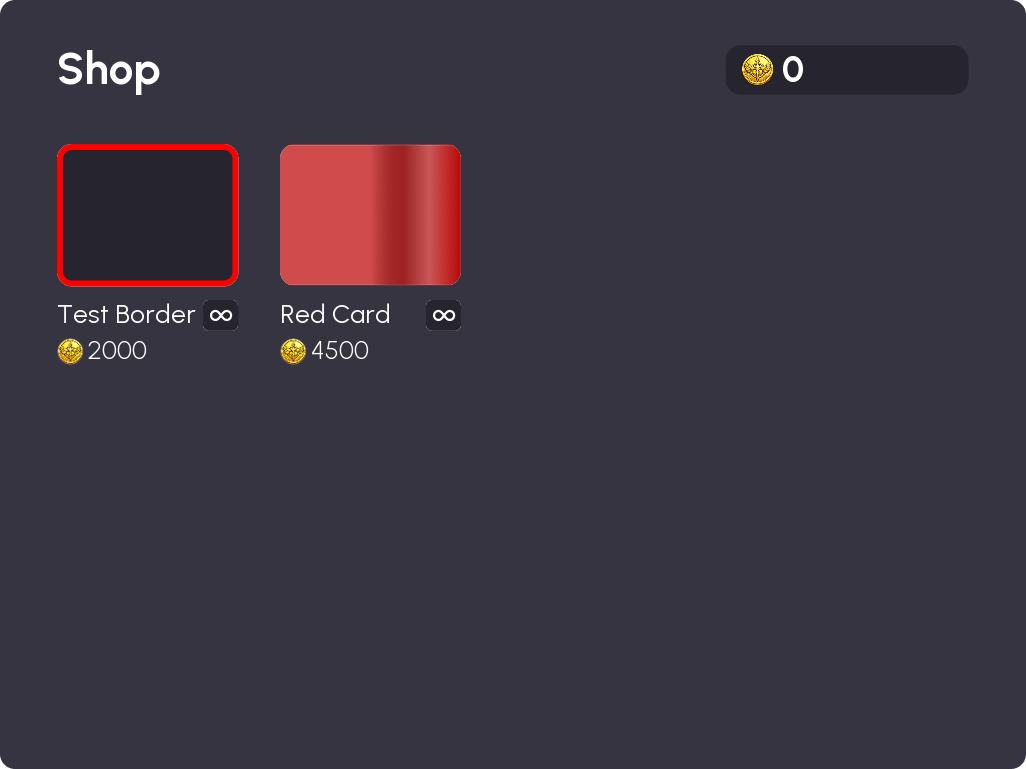
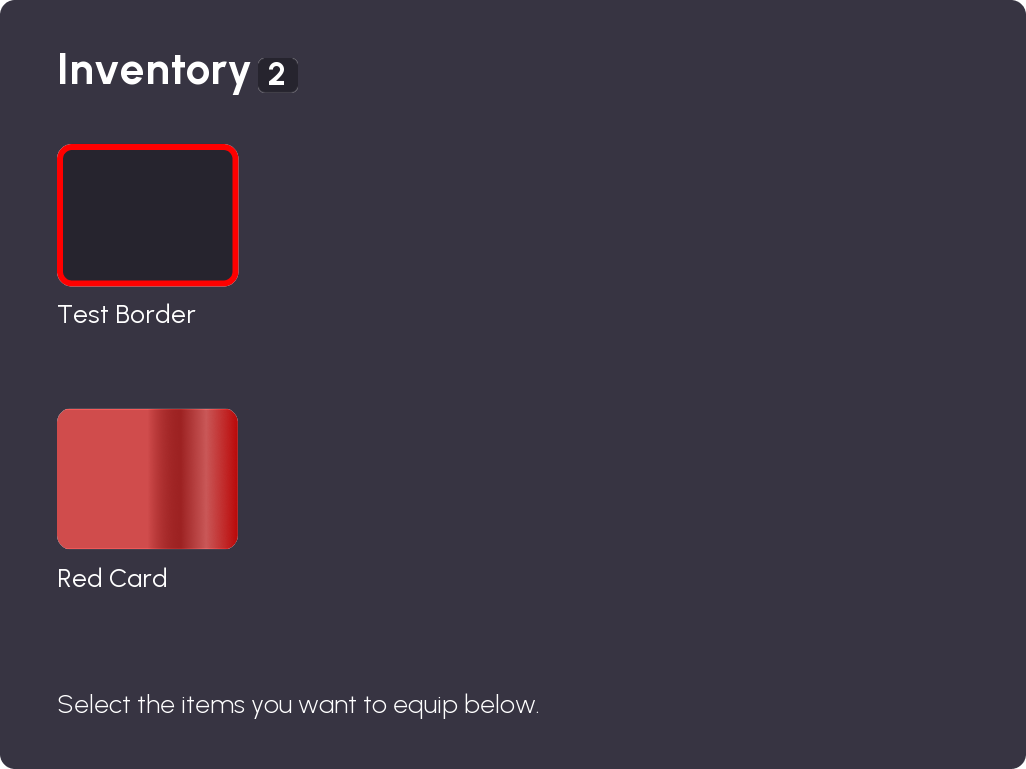
Added inventory image

diff --git a/economy/inventory.py b/economy/inventory.py
@@ -1,0 +1,92 @@
+import logging
+from io import BytesIO
+from pathlib import Path
+from typing import Any, Dict, cast
+
+import discord
+from discord import Member
+from PIL import Image, ImageDraw, ImageFont
+
+from economy.operations import get_shop
+from firebase_client import db
+
+log = logging.getLogger(__name__)
+
+BASE_DIR = Path(__file__).resolve().parent.parent
+ASSETS_DIR = BASE_DIR / "assets"
+FONTS_DIR = BASE_DIR / "assets/fonts"
+
+log.warning(f"BASE_DIR = {BASE_DIR}")
+log.warning(f"ASSETS_DIR = {ASSETS_DIR} exists={ASSETS_DIR.exists()}")
+log.warning(f"FONTS_DIR = {FONTS_DIR} exists={FONTS_DIR.exists()}")
+
+
+async def generate_inventory(
+    interaction: discord.Interaction | None = None, userId: str | None = None
+) -> BytesIO:
+
+    user_doc = db.collection("users").document(userId).get()
+    items = (user_doc.to_dict() or {}).get("inventory", [])
+
+    shop_items = await get_shop()
+    shop_lookup = {item["name"]: item for item in shop_items}
+
+    bg = Image.open(ASSETS_DIR / "inventory.png").convert("RGBA")
+
+    font_small = ImageFont.truetype(FONTS_DIR / "Urbanist-Regular.ttf", 26)
+    font_light = ImageFont.truetype(FONTS_DIR / "Urbanist-Light.ttf", 26)
+    font_bold = ImageFont.truetype(FONTS_DIR / "Urbanist-Bold.ttf", 44)
+    font_small_bold = ImageFont.truetype(FONTS_DIR / "Urbanist-Bold.ttf", 32)
+
+    draw = ImageDraw.Draw(bg)
+
+    draw.text((57, 42), "Inventory", font=font_bold, fill="#FFFFFF")
+    draw.text(
+        (57, 688),
+        "Select the items you want to equip below.",
+        font=font_light,
+        fill="#FFFFFF",
+    )
+
+    x = 0
+    y = 0
+    gapX = 223
+    gapY = 264
+
+    quantity_image = Image.open(ASSETS_DIR / "quantity.png").convert("RGBA")
+    quantity_image = quantity_image.resize((40, 35))
+    bg.paste(
+        quantity_image,
+        (258, 58),
+        quantity_image,
+    )
+    draw.text((268, 54), f"{len(items)}", font=font_small_bold, fill="#FFFFFF")
+    for item in items:
+        shop_item = shop_lookup.get(item["id"])
+        if not shop_item:
+            continue  # skip if item no longer exists in shop
+
+        image_path = ASSETS_DIR / shop_item["image"]
+        item_picture = Image.open(image_path).convert("RGBA")
+
+        if x == 4:
+            y += 1
+            x = 0
+
+        bg.paste(item_picture, (57 + gapX * x, 144 + gapY * y), item_picture)
+
+        draw.text(
+            (57 + gapX * x, 298 + gapY * y),
+            item["id"],
+            font=font_small,
+            fill="#FFFFFF",
+        )
+
+        x += 1
+
+    buffer = BytesIO()
+    # bg.save("final_profile_card.png")
+    bg.save(buffer, format="PNG")
+    buffer.seek(0)
+
+    return buffer

diff --git a/cogs/economy.py b/cogs/economy.py
@@ -1,5 +1,5 @@
 import discord
-from discord import app_commands
+from discord import app_commands, user
 from discord.ext import commands
 from google.cloud import firestore
 
@@ -11,6 +11,7 @@ from config import (
 )
 from economy.gamba.doom_view import DoomSpinView
 from economy.gamba.utils import has_spun_today
+from economy.inventory import generate_inventory
 from economy.operations import buy_item, get_shop, list_item, unlist_item
 from economy.shop import shop_embed
 from economy.shop_generation import generate_shop
@@ -215,22 +216,8 @@ class Economy(commands.Cog):
                 "Your inventory is empty.", ephemeral=True
             )
 
-        lines = []
-
-        for item in inventory:
-            item_id = item.get("id")
-            item_type = item.get("type")
-
-            equipped = data.get(item_type) == item_id
-            status = "✅ Equipped" if equipped else "—"
-
-            lines.append(f"**{item_id}** ({item_type}) {status}")
-
-        embed = discord.Embed(
-            title=f"{interaction.user.display_name}'s Inventory",
-            description="\n".join(lines),
-            color=discord.Color.magenta(),
-        )
+        image = await generate_inventory(interaction, str(interaction.user.id))
+        file = discord.File(image, filename="inventory.png")
 
         borders = []
         backgrounds = []
@@ -249,7 +236,11 @@ class Economy(commands.Cog):
             user_id=interaction.user.id, borders=borders, backgrounds=backgrounds
         )
 
-        await interaction.response.send_message(embed=embed, view=view, ephemeral=True)
+        await interaction.followup.send(
+            file=file,
+            view=view,
+            ephemeral=True,
+        )
 
     @app_commands.command(
         name="equip", description="Equip an item from your inventory."

diff --git a/testing.py b/testing.py
@@ -2,6 +2,7 @@ import asyncio
 
 import aiohttp
 
+from economy.inventory import generate_inventory
 from economy.shop_generation import generate_shop
 from extra_commands.wordle import choose_new_word
 from extra_commands.wordle_share import generate_wordle_share
@@ -50,6 +51,6 @@ def get_all_users():
 if __name__ == "__main__":
     # get_all_users()
     # choose_new_word()
-    asyncio.run(generate_shop())
+    asyncio.run(generate_inventory(userId="292040660696039424"))
     # asyncio.run(backfill_ccids())
     # asyncio.run(generate_wordle_share(None, "292040660696039424"))

diff --git a/economy/shop_generation.py b/economy/shop_generation.py
@@ -39,11 +39,16 @@ async def generate_shop(
 
     draw.text((57, 42), "Shop", font=font_bold, fill="#FFFFFF")
     draw.text((782, 47), f"{coins}", font=font_medium_bold, fill="#FFFFFF")
-
+    draw.text(
+        (57, 688),
+        "Select the items you want to buy below.",
+        font=font_light,
+        fill="#FFFFFF",
+    )
     x = 0
     y = 0
     gapX = 223
-    gapY = 28
+    gapY = 264
     for item in items:
         if x == 4:
             y += 1
